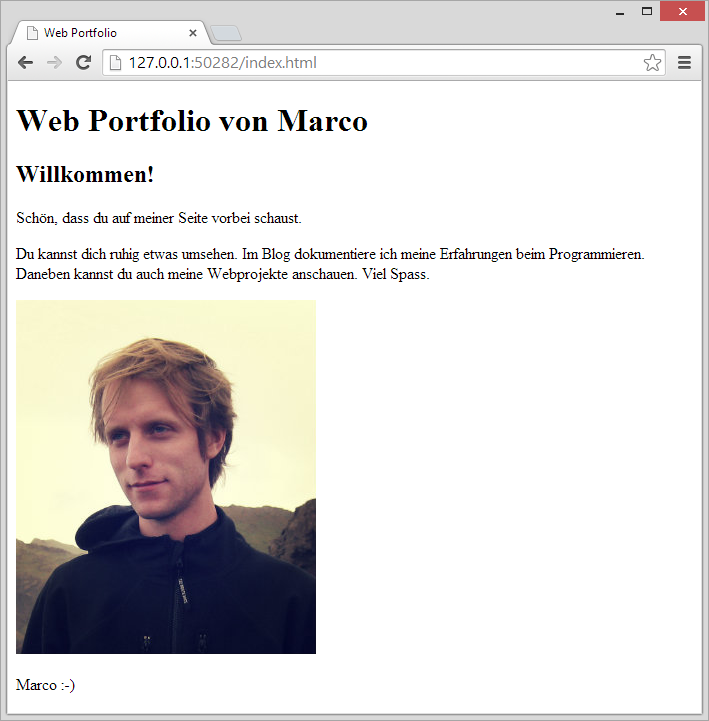
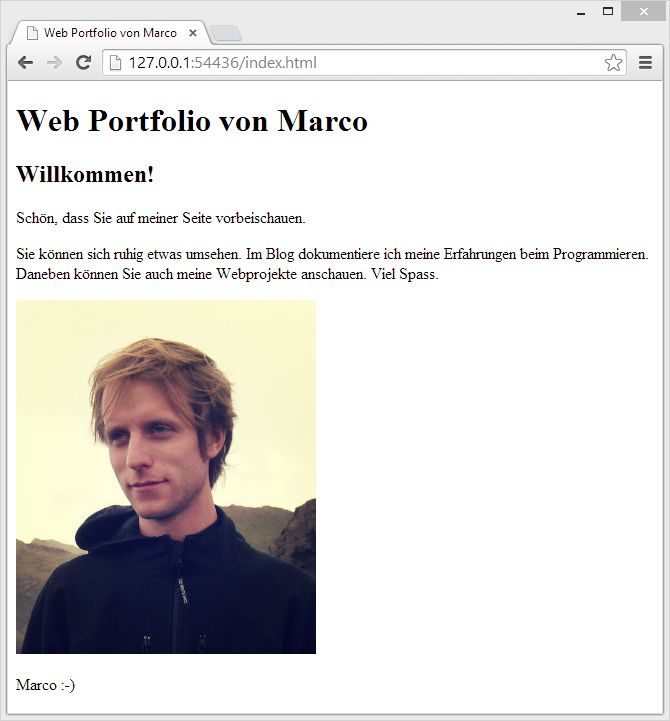
Drafting "html-css" tutorial

diff --git a/collections/library/html-css-de-navigating-between-pages.md b/collections/library/html-css-de-navigating-between-pages.md
@@ -1,6 +1,6 @@
 ---
 layout: article
-title: "Navigation zwischen Seiten"
+title: "Navigieren zwischen Seiten"
 date: 2014-07-22 00:00
 slug: html-css/de/navigating-between-pages
 github: false
@@ -20,8 +20,255 @@ sidebars:
     icon-css: fa fa-fw fa-file-word-o
 ---
 
+Unser Portfolio hat bis hierhin nur eine Startseite. Die meisten *Websites* (gemeint ist damit der ganze Webauftritt) haben natürlich mehr als nur eine Seite. In diesem Teil werden wir weitere Seiten erstellen und eine Navigation einfügen, damit die Besucher zwischen den verschiedenen Seiten wechseln können.
+
+
+## Neue Seiten erstellen
+
+Wir erstellen drei neue Seiten: Eine Seite für unseren eigenen **Blog**, ein für **Projekte** und mit **Kontaktinformationen**. 
+
+Diese drei Seiten stellen unsere "Hauptseiten" dar. Das heisst, dass wir daran denken müssen, dass jeweils weitere Unterseiten dazukommen könnten. So wird es zum Beispiel im Blog später für jeden Blogeintrag eine eigenen Unterseite geben. Aus diesem Grund werden wir für diese drei Seiten **je einen eigenen Unterordner** erstellen. Das gibt uns eine gute Ordnung. 
+
+Damit bei einem Aufruf des Unterordners die jeweilige Hauptseite automatisch als erstes angezeigt wird, nennen wir alle Hauptseiten `index.html`.
+
+Eine neue Seite zu erstellen ist einfach. Am besten kopieren Sie die bisherige `index.html`, damit Sie bereits die Grundstruktur haben. Dann müssen wir natürlich jeweils ein paar Anpassungen vornehmen.
+
+**Achtung:** *Achten Sie darauf, dass Sie beim Benennen von Unterordnern und Dateinamen keine Umlaute und Sonderzeichen oder Leerschläge verwenden. Meistens wählt man auch nur Kleinbuchstaben. Sie können Wörter aber zum Beispiel durch ein Minus (`-`) trennen, wenn Sie möchten.* 
+
+
+### Seite für den Blog
+
+Erstellen Sie einen Unterordner in Ihrem *Portfolio*-Ordner namens `blog`. Kopieren Sie die Datei `index.html` in diesen Unterordner. Nun sollte Ihre Dateistruktur so aussehen:
+
+![Blog Unterordner](/assets/library/html-css/navigating-between-pages/blog-subfolder.png)
+
+Öffnen Sie nun die kopierte Datei `blog/index.html` in Ihrem Browser (wenn Sie den Brackets-Editor verwenden, klicken Sie auf den Blitz für die *Live-Vorschau*). Nun werden Sie merken, dass zwei Dinge nicht funktionieren:
+
+1. Das Bild wird nicht angezeigt.
+2. Die im CSS definierten Farben werden nicht übernommen.
+
+Da wir uns in einem Unterordner befinden, stimmt jetzt die URL (oder auch Pfad genannt) nicht mehr. Damit das Bild angezeigt würde, müssten wir für das `src`-Attribut anstatt `marco.jpg` nun `../marco.jpg` angeben. Aber wahrscheinlich wollen wir nicht schon wieder das gleiche Bild auf der Blogseite. Also können Sie das gesamte `img`-Element entfernen.
+
+Beim **CSS** ist es üblich, dass man die Regeln jeweils **für das gesamte Projekt** definiert. So ist es wichtig, dass wir die gleiche CSS-Datei auch in der Blogseite verwenden können. Dies erreichen wir, indem wir die URL ändern von `main.css` auf `../main.css`. So sieht jetzt das gesamte `link`-Element aus:
+
+##### blog/index.html
+
+<pre class="prettyprint lang-html">
+&lt;link rel="stylesheet" href="../main.css">
+</pre>
+
+Diese Änderung sollte dazu führen, dass das Styling vom CSS auch für die Blogseite übernommen wird.
+
+Jetzt passen wir noch den Titel und Inhalt an:
+
+##### blog/index.html
+
+<pre class="prettyprint lang-html">
+&lt;!DOCTYPE html>
+
+&lt;html>
+  &lt;head>
+    &lt;meta charset="utf-8">
+    &lt;link rel="stylesheet" href="../main.css">
+    &lt;title>Blog - Web Portfolio von Marco&lt;/title>
+  &lt;/head>
+  &lt;body>
+    &lt;h1 class="title">Blog&lt;/h1>
+    
+    &lt;p>Hier schreibe ich über alles, was mir beim Lernen von Webprogrammierung begegnet.&lt;/p>
+
+    &lt;h2>Blogeinträge&lt;/h2>
+    
+    &lt;!-- Hier kommt eine Liste von allen Blogeinträgen. -->
+    
+  &lt;/body>
+&lt;/html>
+</pre>
+
+Im HTML-Code oben sehen Sie ein neues Element mit den Tags `<!--` und `-->`. Mit diesen Tags können wir in HTML einen **Kommentar** hinschreiben. Kommentare sind nur für uns als Programmierer gedacht und werden vom Browser ignoriert.
+
+
+#### Blogeintrag als Unterseite
+
+Der Blog braucht natürlich noch Einträge. Wir erstellen für jeden Blogeintrag eine eigen HTML-Unterseite. Kopieren Sie die Datei `blog/index.html` und geben Sie Ihr den Namen `2014-08-02-erster-eintrag.html`. 
+
+Die Zahlenkombination `2014-08-02` ist das Datum in umgekehrter Reihenfolge, also der 2. August 2014. Man könnte natürlich irgend einen Namen vergeben, aber wenn man das Datum so in den Dateinamen integriert, dann hat man automatisch eine chronologische Sortierung der Dateien. Dies gibt uns eine bessere Übersicht, wenn wir später viele Blogeinträge haben.
+
+Im Blogeintrag ändern wir den Inhalt wie folgt ab:
+
+##### blog/2014-08-02-erster-eintrag.html
+
+<pre class="prettyprint lang-html">
+&lt;!DOCTYPE html>
+
+&lt;html>
+  &lt;head>
+    &lt;meta charset="utf-8">
+    &lt;link rel="stylesheet" href="../main.css">
+    &lt;title>Erster Eintrag - Web Portfolio von Marco&lt;/title>
+  &lt;/head>
+  &lt;body>
+    &lt;h1 class="title">Erster Eintrag&lt;/h1>
+    &lt;p>02. August 2014&lt;/p>
+    
+    &lt;hr>
+
+    &lt;p>Dies ist mein erster Eintrag im Blog.&lt;/p>
+    
+  &lt;/body>
+&lt;/html>
+</pre>
+
+Auch hier ist ein neues HTML-Element enthalten (`hr`). Sie werden mit ausprobieren oder einer Internetsuche schnell herausfinden, was es bewirkt.
+
+
+#### Legen Sie los mit Blogeinträgen!
+
+Ich empfehle Ihnen, dass Sie sofort damit anfangen, Blogeinträge zu schreiben. Sie könnten an jedem Tag, an dem Sie etwas Neues über Programmieren gelernt haben, einen kurzen Eintrag dazu schreiben. Ich notiere hier ein paar Gedanken, die Sie zu mögliche Inhalten inspirieren könnten:
+
+* Was habe ich heute gelernt?
+  * Screenshots einfügen
+  * Links zu hilfreichen Seiten
+* Welche Probleme sind mir begegnet?
+* Wie habe ich diese Probleme gelöst?
+* Woran sollte ich das nächste Mal arbeiten?
+
+Mit solchen Blogeinträgen werden Sie beim Lernen von Programmierung viel schneller vorwärts kommen:
+
+1. Sie werden sich bewusst, was Sie gelernt haben &rarr; mehr Motivation!
+2. Sie können später in ihrer persönlichen Dokumentation etwas nachschlagen, z.B. Links zu hilfreichen Seiten.
+3. Sie üben beim Schreiben der Einträge gleich die gelernten HTML-Elemente und CSS-Regeln.
+4. Wenn wir später anschauen, wie man Webseiten veröffentlicht, dann können Sie Ihren Blog auch anderen zugänglich machen. So können Sie Ihr Wissen mit anderen Teilen oder jemanden einladen, Ihnen bei einem Problem zu helfen.
+5. Falls Sie Ihr Portfolio veröffentlichen, würde mich das sehr interessieren. Schreiben Sie dann irgendwo einen Kommentar mit dem Link!
+
+*Also, warten Sie nicht und legen Sie los. Es lohnt sich!*
+
+
+### Seite für Projekte
+
+Wenn wir später verschiedene Webapplikationen programmieren, wäre es natürlich nützlich, dafür eine separate Seite zu haben. Wir bereiten schon mal eine Seite für unsere Projekte vor, jedoch noch ohne Inhalt.
+
+Gehen Sie wie oben beim Blog vor und erstellen Sie einen Unterordner `projekte` mit einer Datei `index.html`:
+
+
+##### projekte/index.html
+
+<pre class="prettyprint lang-html">
+&lt;!DOCTYPE html>
+
+&lt;html>
+  &lt;head>
+    &lt;meta charset="utf-8">
+    &lt;link rel="stylesheet" href="../main.css">
+    &lt;title>Projekte - Web Portfolio von Marco&lt;/title>
+  &lt;/head>
+  &lt;body>
+    &lt;h1 class="title">Projekte&lt;/h1>
+    
+    &lt;p>Hier finden Sie später meine Webprojekte.&lt;/p>
+
+  &lt;/body>
+&lt;/html>
+</pre>
+
+
+### Seite für Kontakt
+
+Als letzte Hauptseite fügen wir eine Seite mit Kontaktinformationen hinzu. Erstellen Sie einen Unterordner `kontakt` mit einer Datei `index.html`.
+
+**Wichtig:** *Überlegen Sie sich gut, welche Informationen Sie öffentlich machen wollen! Geben Sie **nicht Ihre Haupt-E-Mail-Adresse an**, denn es kann sein, dass Sie nachher auf diese Adresse Spamnachrichten erhalten.*
+
+##### kontakt/index.html
+
+<pre class="prettyprint lang-html">
+&lt;!DOCTYPE html>
+
+&lt;html>
+  &lt;head>
+    &lt;meta charset="utf-8">
+    &lt;link rel="stylesheet" href="../main.css">
+    &lt;title>Kontakt - Web Portfolio von Marco&lt;/title>
+  &lt;/head>
+  &lt;body>
+    &lt;h1 class="title">Kontakt&lt;/h1>
+    
+    &lt;p>
+      Sie können mich kontaktieren per Mail: &lt;a href="mailto:spammails@gmx.ch">spammails@gmx.ch&lt;/a>
+    &lt;/p>
+    
+    &lt;p>
+      Marco Jakob&lt;br>
+      Strasse 55b&lt;br>
+      Schweiz
+    &lt;/p>
+  &lt;/body>
+&lt;/html>
+</pre>
+
+Bei der Adresse sehen Sie ein neues Element: `<br>`. Es bewirkt einen Zeilenumbruch. Beachten Sie auch den speziellen Link mit `mailto:` und der E-Mail-Adresse. Dieser Link bewirkt, dass das E-Mail-Programm geöffnet wird und gleich die Adresse ausgefüllt ist.
+
+Nun haben wir bereits fünf HTML-Seiten:
+
+![Alle Dateien](/assets/library/html-css/navigating-between-pages/all-files-de.png)
+
+Was natürlich fehlt, ist eine Navigation, so dass man einfach zwischen diesen Seiten hin und her wechseln kann. Das nehmen wir gleich als nächstes in Angriff.
+
+
+## Navigation
+
+Eine Navigation besteht eigentlich aus ganz normalen Links zu anderen Seiten. Wir beginnen mit einer ganz einfachen Variante und werden diese dann laufend verbessern, bis wir eine schöne und komplette Navigation auf allen Seiten haben.
+
+Zuerst werden wir die Navigation nur für unsere Startseite programmieren. Erst am Schluss werden wir diese dann in alle anderen Seiten hinein kopieren.
+
+
+### Navigation mit Links
+
+Öffnen Sie `index.html` von der Startseite. 
+
+Mit einfachen Links können wir von der Startseite auf die anderen Seiten springen. Die Navigation kommt im `body`-Teil noch vor dem Titel. Fügen Sie also folgende vier Links zwischen `body`-Tag und dem Titel ein:
+
+##### index.html
+
+<pre class="prettyprint lang-html">
+&lt;body>
+  &lt;a href="/">Home&lt;/a>
+  &lt;a href="blog/">Blog&lt;/a>
+  &lt;a href="projekte/">Projekte&lt;/a>
+  &lt;a href="kontakt/">Kontakt&lt;/a>
+
+  &lt;h1 class="title">Web Portfolio von Marco&lt;/h1>
+</pre>
+
+Und so sieht die Navigation nun aus:
+
+![Navigation mit Links](/assets/library/html-css/navigating-between-pages/navigation-links-de.png)
+
+
+
+
+### Listen
+
+
+
+Wir werden 
+
+
+
 * Create navigation for Blog, Projects, Contact.
 * Ordered, Unordered Lists
 * Links
 * Divs
 * Comments?
+
+
+
+
+
+
+
+
+
+
+
+
+

diff --git a/collections/library/html-css-de-intro-to-css.md b/collections/library/html-css-de-intro-to-css.md
@@ -56,16 +56,16 @@ Fügen Sie dieses Element im `<head>`-Bereich ein. Dann sollte Ihr Code etwa so 
   &lt;head>
     &lt;meta charset="utf-8">
     <mark>&lt;link rel="stylesheet" href="main.css"></mark>
-    &lt;title>Web Portfolio&lt;/title>
+    &lt;title>Web Portfolio von Marco&lt;/title>
   &lt;/head>
   &lt;body>
     &lt;h1>Web Portfolio von Marco&lt;/h1>
     
     &lt;h2>Willkommen!&lt;/h2>
     
-    &lt;p>Schön, dass du auf meiner Seite vorbei schaust.&lt;/p>
+    &lt;p>Schön, dass Sie auf meiner Seite vorbeischauen.&lt;/p>
     
-    &lt;p>Du kannst dich ruhig etwas umsehen. Im Blog dokumentiere ich meine Erfahrungen beim Programmieren. Daneben kannst du auch meine Webprojekte anschauen. Viel Spass.&lt;/p>
+    &lt;p>Sie können sich ruhig etwas umsehen. Im Blog dokumentiere ich meine Erfahrungen beim Programmieren. Daneben können Sie auch meine Webprojekte anschauen. Viel Spass.&lt;/p>
     
     &lt;img src="marco.jpg" alt="Foto von mir">
 
@@ -327,3 +327,37 @@ h2 {
   width: 5em;
 }
 </pre>
+
+
+## Beispiel Klassenselektor im Portfolio
+
+Nehmen wir mal an, wir möchten die Hauptüberschrift "Web Portfolio von Marco" etwas vergrössern. Das wäre natürlich möglich, indem wir eine CSS-Regel für das Element `h1` definieren würden. Etwa so:
+
+<pre class="prettyprint lang-css">
+h1 {
+  font-size: 65px;
+}
+</pre>
+
+Das Problem dabei ist, dass nun **alle** `h1`-Elemente eine grössere Schrift haben werden. Wir möchten jedoch nur diese erste Überschrift vergrössern. Dies können wir erreichen mit einem **Klassenselektor**.
+
+Dazu fügen wir zuerst dem `h1`-Element im HTML eine Klasse hinzu. Wir können irgend einen Wert für die Klasse vergeben, ich wähle hier `title`.
+
+<pre class="prettyprint lang-html">
+&lt;h1 class="title">Web Portfolio von Marco&lt;/h1>
+</pre>
+
+Dann können wir diesen einen Titel im CSS ansprechen mit `.title`. Die CSS-Regel ist jetzt:
+
+<pre class="prettyprint lang-css">
+.title {
+  font-size: 65px;
+}
+</pre>
+
+Wenn alles geklappt hat, dann sieht das Portfolio nun etwa so aus: 
+
+![Portfolio](/assets/library/html-css/intro-to-css/portfolio-de.png)
+
+
+

diff --git a/collections/library/html-css-de-first-web-page.md b/collections/library/html-css-de-first-web-page.md
@@ -133,7 +133,7 @@ Die Element `<html>` und `<body>` haben wir bereits kennen gelernt. Die Grundstr
 &lt;html>
   &lt;head>
     &lt;meta charset="utf-8">
-    &lt;title>Web Portfolio&lt;/title>
+    &lt;title>Web Portfolio von Marco&lt;/title>
   &lt;/head>
   &lt;body>
     &lt;h1>Web Portfolio von Marco&lt;/h1>
@@ -208,16 +208,16 @@ Der gesamte Code könnte nun etwa so aussehen (ich habe noch eine Unterüberschr
 &lt;html>
   &lt;head>
     &lt;meta charset="utf-8">
-    &lt;title>Web Portfolio&lt;/title>
+    &lt;title>Web Portfolio von Marco&lt;/title>
   &lt;/head>
   &lt;body>
     &lt;h1>Web Portfolio von Marco&lt;/h1>
     
     &lt;h2>Willkommen!&lt;/h2>
     
-    &lt;p>Schön, dass du auf meiner Seite vorbei schaust.&lt;/p>
+    &lt;p>Schön, dass Sie auf meiner Seite vorbeischauen.&lt;/p>
     
-    &lt;p>Du kannst dich ruhig etwas umsehen. Im Blog dokumentiere ich meine Erfahrungen beim Programmieren. Daneben kannst du auch meine Webprojekte anschauen. Viel Spass.&lt;/p>
+    &lt;p>Sie können sich ruhig etwas umsehen. Im Blog dokumentiere ich meine Erfahrungen beim Programmieren. Daneben können Sie auch meine Webprojekte anschauen. Viel Spass.&lt;/p>
     
     &lt;img src="marco.jpg" alt="Foto von mir">
 
